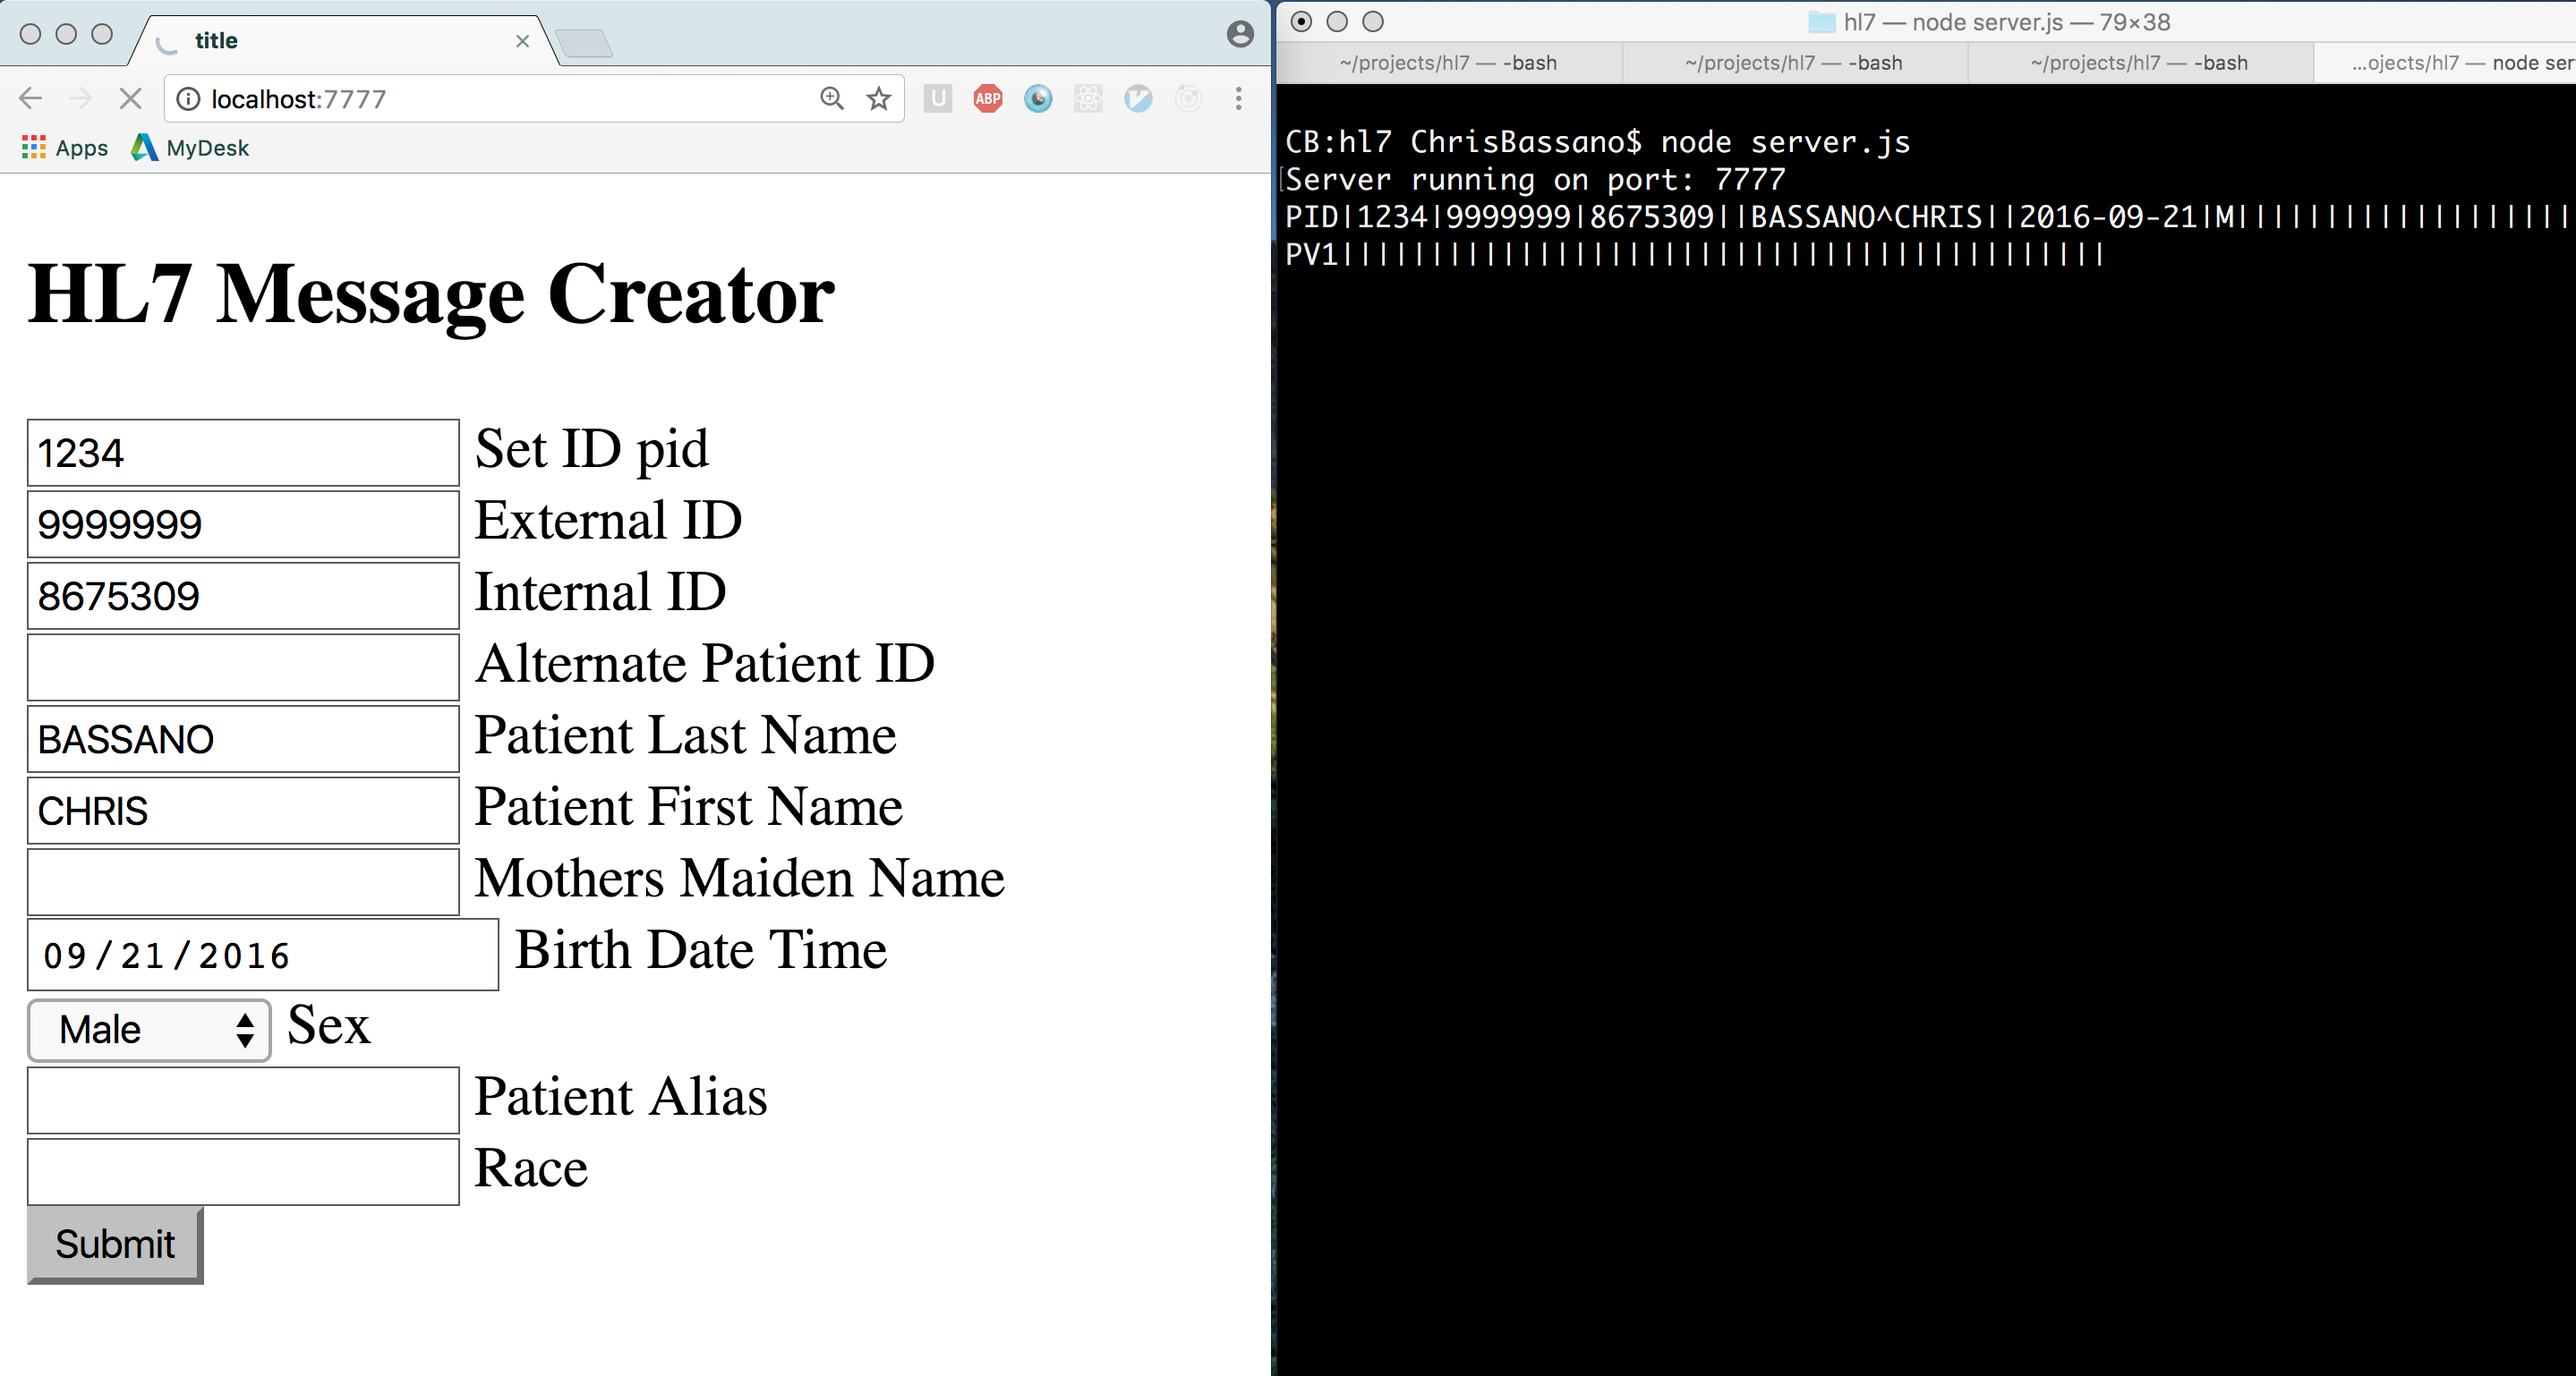
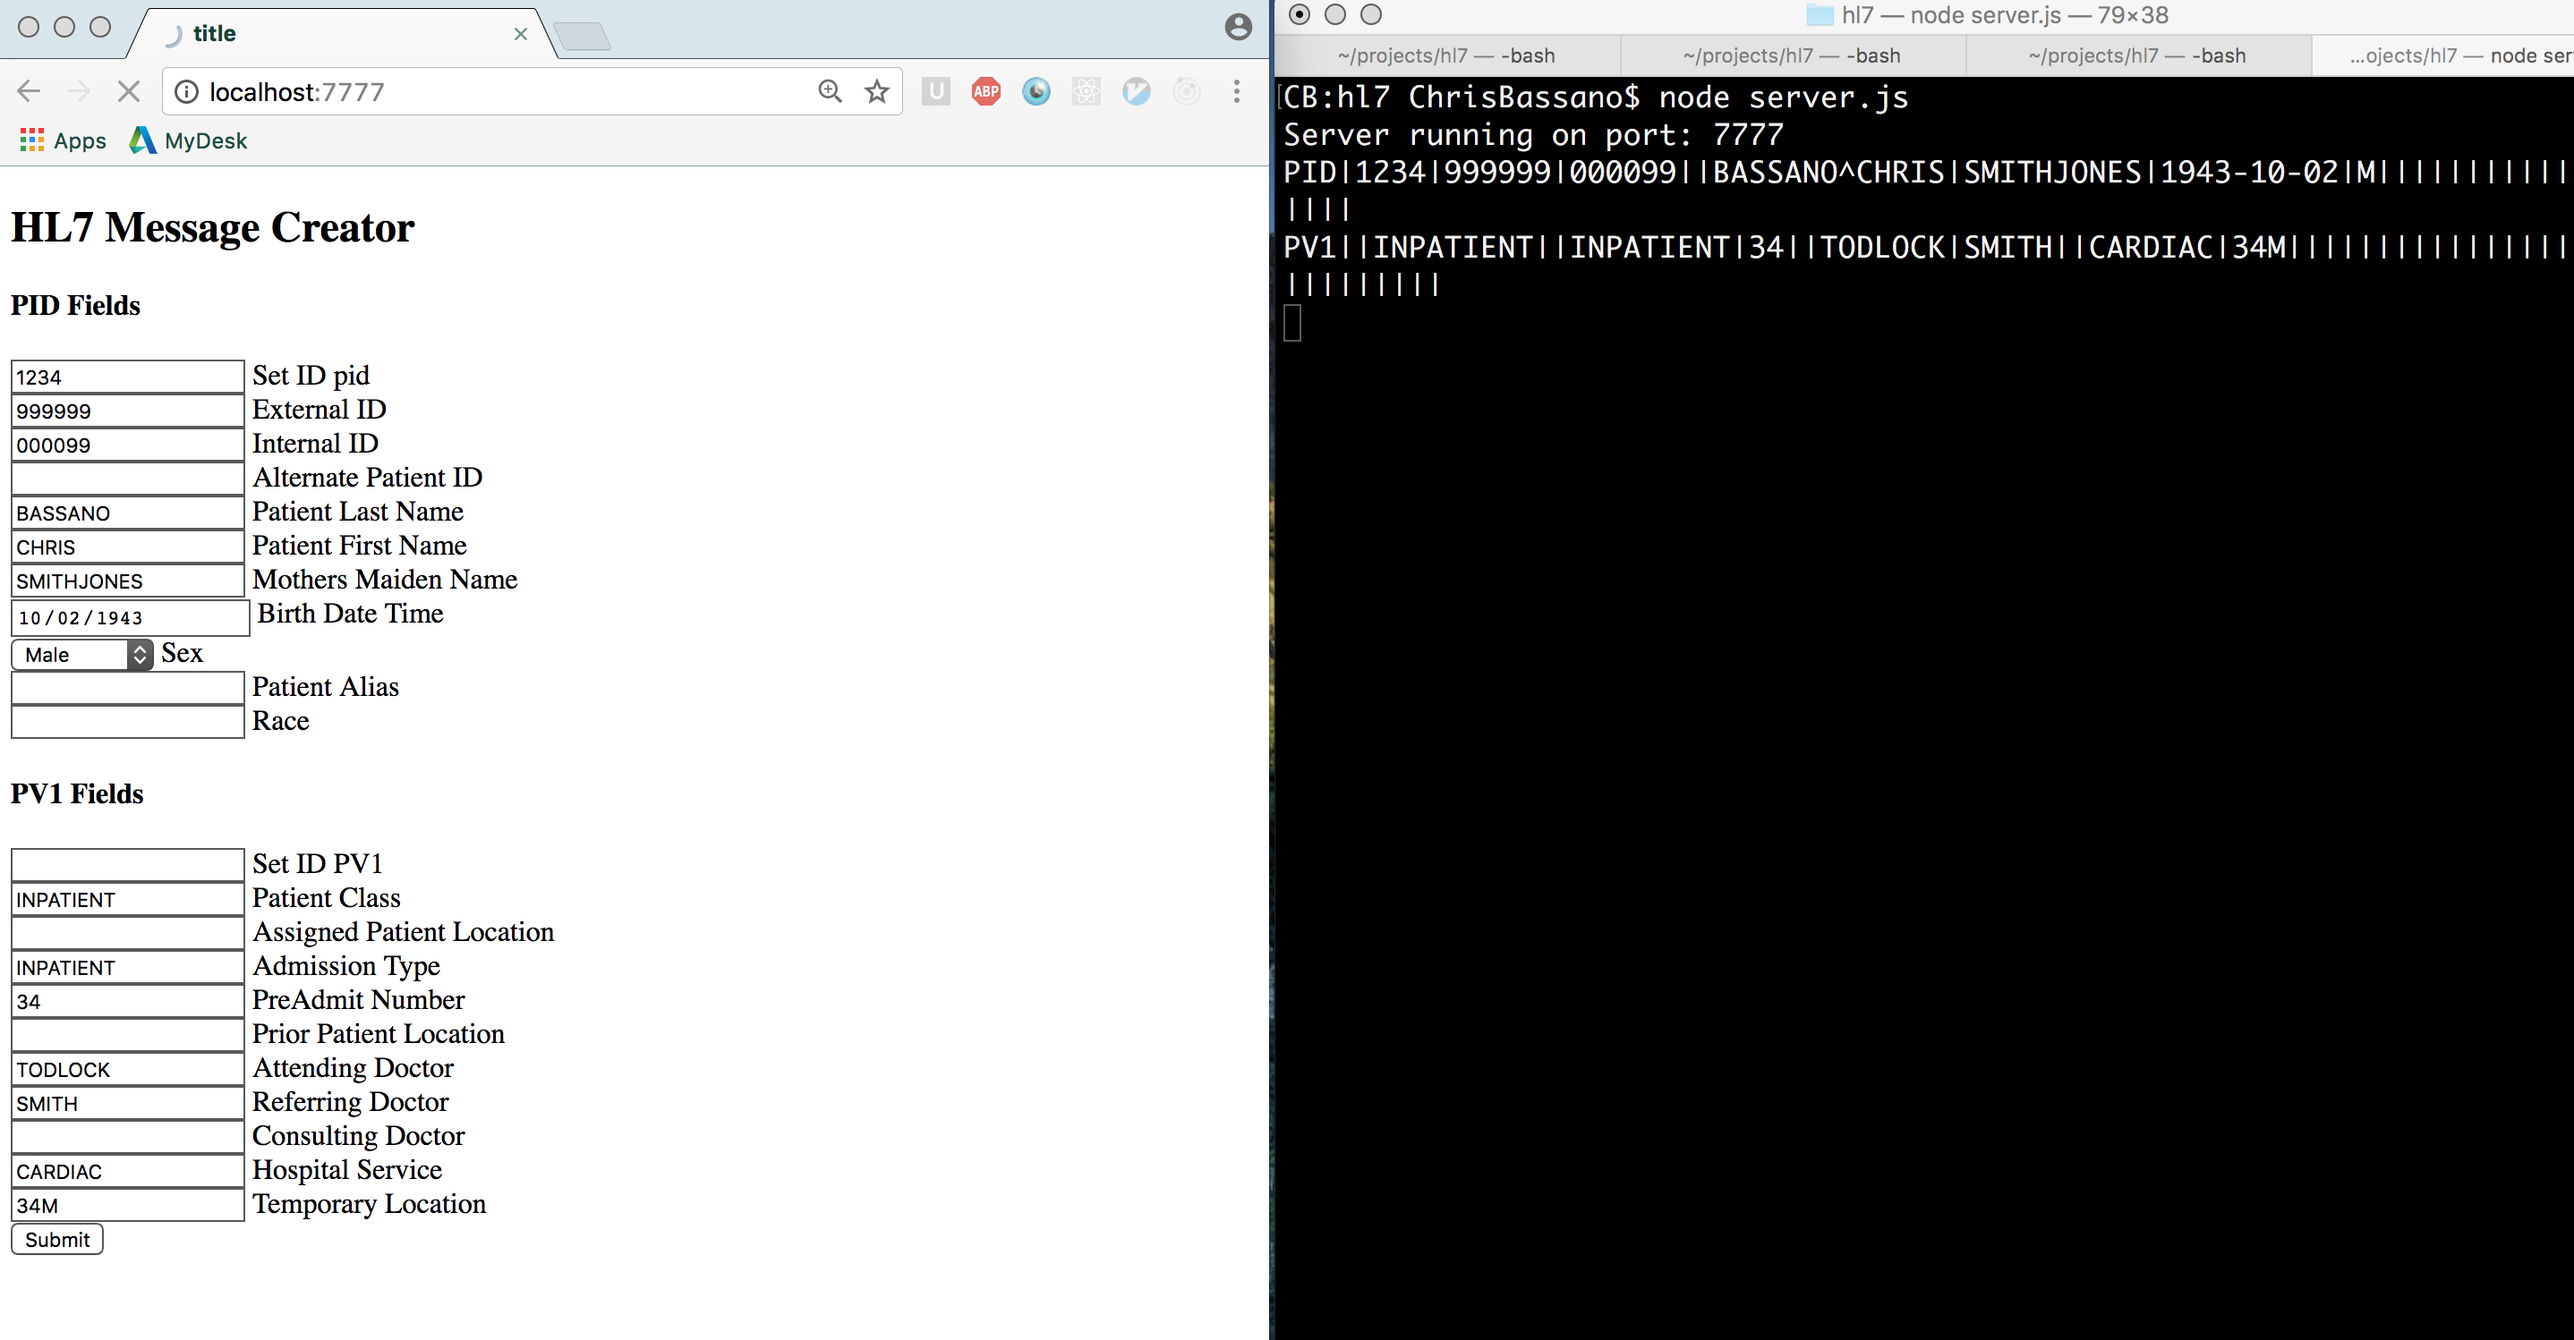
updated readme, cleaned comments

diff --git a/index.html b/index.html
@@ -5,25 +5,19 @@
     <title>title</title>
   </head>
   <body>
-    <script
-      src="https://code.jquery.com/jquery-3.1.1.min.js"
-      integrity="sha256-hVVnYaiADRTO2PzUGmuLJr8BLUSjGIZsDYGmIJLv2b8="
-      crossorigin="anonymous"></script>
 
     <h2> HL7 Message Creator </h2>
-    <form  method='post'>
-      <input type="text" name="set_ID_pid"> Set ID pid <br>
-      <input type="text" name="external_ID"> External ID <br>
-      <!-- TODO: Change this to red until it's filled out -->
+    <form method='post'>
+      <h4> PID Fields </h4>
+      <input type="text" name="set_ID_pid" value="1234"> Set ID pid <br>
+      <input type="text" name="external_ID" value="999999"> External ID <br>
       <input type="text" name="internal_ID" required> Internal ID <br>
       <input type="text" name="alternate_patient_ID"> Alternate Patient ID <br>
-      <!-- TODO: Change this to red until it's filled out -->
       <input type="text" name="patient_last_name" required> Patient Last Name <br>
       <input type="text" name="patient_first_name" required> Patient First Name <br>
-      <input type="text" name="mothers_maiden_name"> Mothers Maiden Name<br>
-      <!-- TODO: Make DATE PICKER UI -->
-      <input type="date" name="birth_date_time"> Birth Date Time <br>       
-      <select name="sex"> 
+      <input type="text" name="mothers_maiden_name" value="SMITHJONES"> Mothers Maiden Name<br>
+      <input type="date" name="birth_date_time" value="1943-10-02"> Birth Date Time <br>       
+      <select name="sex" value="F"> 
         <option value="M"> Male </option>
         <option value="F"> Female </option>
         <option value="U"> Unknown </option>
@@ -31,6 +25,18 @@
       </select> Sex <br>
       <input type="text" name="patient_alias"> Patient Alias <br>
       <input type="text" name="race"> Race <br>
+      <h4> PV1 Fields </h4>
+      <input type="text" name="set_ID_pv1" value=''> Set ID PV1 <br>
+      <input type="text" name="patient_class" required> Patient Class<br>
+      <input type="text" name="assigned_patient_location" value=''> Assigned Patient Location <br>
+      <input type="text" name="admission_type" value='INPATIENT'> Admission Type <br>
+      <input type="text" name="preadmit_number" value='34'> PreAdmit Number <br>
+      <input type="text" name="prior_patient_location" value=''> Prior Patient Location <br>
+      <input type="text" name="attending_doctor" value='TODLOCK'> Attending Doctor <br>
+      <input type="text" name="referring_doctor" value='SMITH'> Referring Doctor <br>
+      <input type="text" name="consulting_doctor" value=''> Consulting Doctor <br>
+      <input type="text" name="hospital_service" value='CARDIAC'> Hospital Service <br>
+      <input type="text" name="temporary_location" value='34M'> Temporary Location <br>
       <input type="submit">
     </form>
 

diff --git a/test/test.js b/test/test.js
@@ -57,8 +57,10 @@ describe("HL7 class", function(){
     })
 
     describe("Checks to make sure we have required items", function(){
+      // This test should be split into different tests for each required item
+      // but for brevity they're all wrapped into one here
       testData.forEach(function(msg){
-        it("checks for patient ID and patient Name", function(done){
+        it("checks for patient ID, patient Name, patient Class", function(done){
           expect(()=> hl7.parse(msg)).to.not.throw(Error)
           expect(()=> hl7.parse({failing: 23423})).to.throw(Error)
           done()

diff --git a/src/validate.js b/src/validate.js
@@ -5,6 +5,7 @@ const validateInput = function (msg) {
   if (typeof arguments[0] === 'function') throw new Error('invalid data format passed to parse()')
   if (!msg.internal_ID) throw new Error('missing internal_ID')
   if (!msg.patient_name) throw new Error('missing patient_name')
+  if (!msg.patient_class) throw new Error('missing patient_class')    
 }
 
 module.exports = validateInput

diff --git a/src/message.js b/src/message.js
@@ -1,4 +1,4 @@
-// chk evaluates whether we're given a user-inputted value. if not, sends an empty string
+// chk evaluates whether we're given a user-input value. if not, sends an empty string
 const chk = (val) => val || ''
 
 const createHL7String = (msg) => {

diff --git a/src/class.js b/src/class.js
@@ -5,7 +5,6 @@ class HL7 {
   parse (msg) {
     validateInput(msg)
     return createHL7String(msg)
-    // console.log(createHL7String(msg))
   }
 }
 

diff --git a/README.md b/README.md
@@ -1,36 +1,41 @@
 # hl7
 
-## Installation
+## Installation and Dependencies
 This repo uses `yarn` as a package manager. [Yarn can be installed using homebrew.](https://yarnpkg.com/en/docs/install)
 
 `yarn install` is used to install all dependencies on a project.
 
-## Features and Testing
+You must have `node`, `yarn`, and `grunt` installed on your computer in order to develop on this repository locally.
+
+## Use
+You can run this locally by navigating to the root directory and running the `node server.js` command. Open up your browser to `localhost:7777`. You can enter data into the UI and see the HL7-encoded string returned in your terminal.  
+
+There are default values for some of the fields for demonstration purposes. 
+
+![img](./comp.png)
+
+## Testing
 Use the command `npm test` to run the test suite. You will be able to see a few HL7 strings produced from within the test suite.
 
-I used TDD using [Mocha](https://mochajs.org/) to develop the initial back-end for the application.
+I used TDD using [Mocha](https://mochajs.org/) to develop the back-end logic for the application.
 
 This repo is using [StandardJS](http://standardjs.com/awesome.html) as a linter.
 
-Upon every filechange, the test suite is run and the code is linted automatically using [grunt](http://gruntjs.com/)
-
-## Dependencies
-You must have `node`, `yarn`, and `grunt` installed on your computer in order to run this locally.
-
-To see the program in action, use the `grunt` command in your terminal to set up the live dev environment. Modify the `class.js` file to see the automatic test and linting integration.
-
-## To-do
-- [ ] Create front-end form 
-- [ ] Add validation functions for some fields (length, character type)
-- [ ] Validate date format used (should we use a date selection tool in the UI?)
-- [ ] Sanitize inputs
-- [ ] Function to concat sub-sections (first name with last name, etc)
-
-## Edge Cases:
-- People named `undefined`, `null`, `NaN`, etc.
-- People with non alpha characters in their names
+Upon every filechange, the test suite is run and the code is linted automatically using [grunt](http://gruntjs.com/).
 
 ## Other Considerations
-This repository only formats data into the PID and PV1 sections of HL7 strings. This program does not store data. 
+This repository only formats data into the PID and PV1 sections of HL7 strings. This program does not store data nor is it intended for actual patient care. If we were to store data, we'd need sanitization of inputs and end-to-end encryption.
 
-The patient name segment only has fields for first and last name. Normally this segment follows the [XPN - Extended Patient Name](http://hl7-definition.caristix.com:9010/HL7%20v2.3.1/segment/Default.aspx?version=HL7%20v2.3.1&dataType=XPN) structure which has up to 8 fields. I used only first and last name for simplicity.
+The patient name segment only has fields for first and last name. Normally this segment follows the [XPN - Extended Patient Name](http://hl7-definition.caristix.com:9010/HL7%20v2.3.1/segment/Default.aspx?version=HL7%20v2.3.1&dataType=XPN) structure which has up to 8 fields. I used only first and last name for simplicity. Because this is the only field I set up for sub-segments, I created a single function called concatName. In a production application, this would be modularized to handle various segments.
+
+This UI is WYSIWYG - anything entered into the UI will be stringified and entered into the HL7 encoded output.
+
+This repo behaves the same regardless of environment (dev, testing, prod, etc.)
+
+##  Possible Improvements
+- Lots of front-end validation and UI improvements. Checking input length, type, etc. 
+- Sanitization of inputs
+- Add more test coverage. I only did basic testing for required fields. There is no end-to-end testing. This testing can be drilled down to each specific segment and sub-segment.
+- Visual representation of the HL7 string in the UI
+- Auto-capitalization of characters on the back-end
+- Automatic pulling of data options from the backend (auto generate the drop-down list for "sex" options rather than hard code options into the html)
